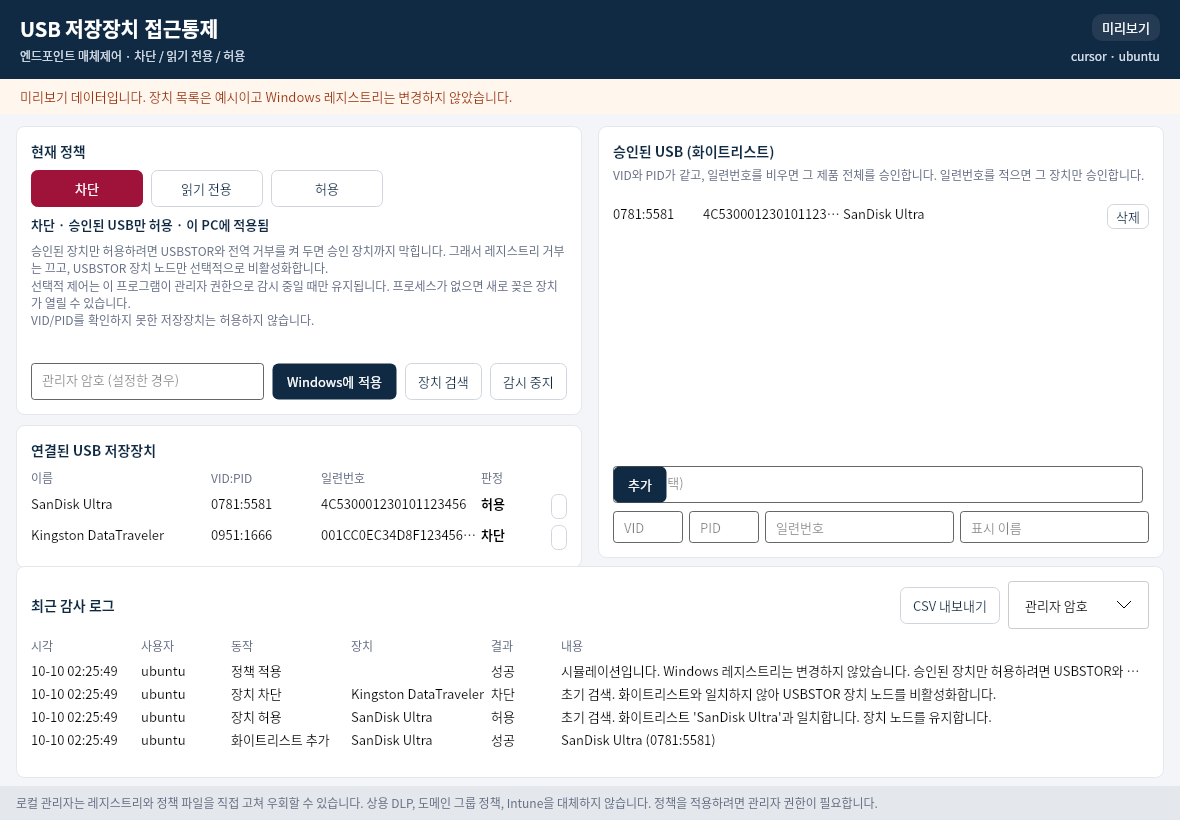
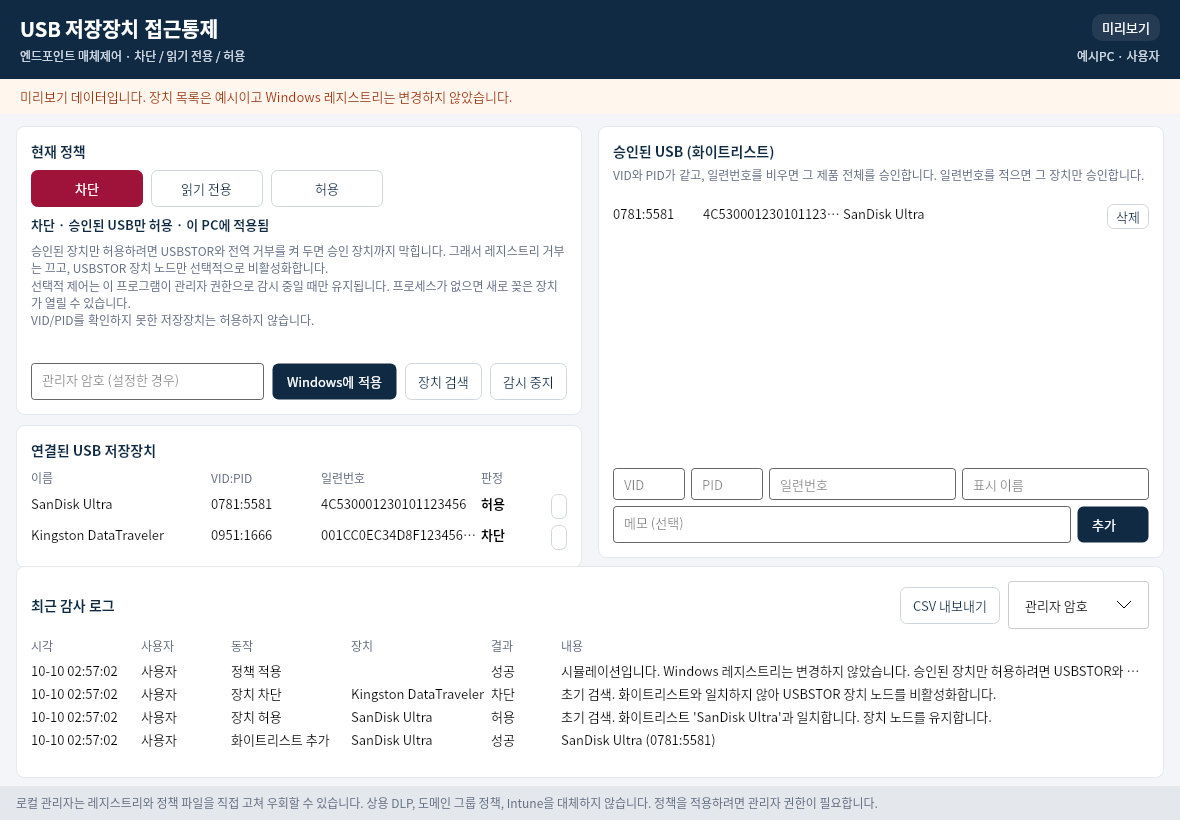
Fix the architecture diagram encoding and the preview screenshot.
Replace the mojibake SVG with UTF-8 Korean text, keep the add button beside the note field, and show a placeholder account in preview captures.

diff --git a/tests/UsbAccessControl.App.Tests/ScreenshotTests.cs b/tests/UsbAccessControl.App.Tests/ScreenshotTests.cs
@@ -14,10 +14,16 @@ public class HeadlessAppBuilder
     public static AppBuilder BuildAvaloniaApp()
     {
         Environment.SetEnvironmentVariable("USBAC_HEADLESS", "1");
-        return AppBuilder.Configure<App>()
+        var builder = AppBuilder.Configure<App>()
             .UseSkia()
             .WithInterFont()
             .UseHeadless(new AvaloniaHeadlessPlatformOptions { UseHeadlessDrawing = false });
+        if (Environment.GetEnvironmentVariable("USBAC_SCREENSHOT_CJK") == "1")
+        {
+            builder = builder.With(new FontManagerOptions { DefaultFamilyName = "Noto Sans CJK KR" });
+        }
+
+        return builder;
     }
 }
 
@@ -30,9 +36,11 @@ public class ScreenshotTests
         {
             DataContext = PreviewSession.CreateModel(),
             Width = 1180,
-            Height = 820,
-            FontFamily = FontFamily.Parse("avares://Avalonia.Fonts.Inter/Assets#Inter")
+            Height = 820
         };
+        window.FontFamily = Environment.GetEnvironmentVariable("USBAC_SCREENSHOT_CJK") == "1"
+            ? new FontFamily("Noto Sans CJK KR")
+            : FontFamily.Parse("avares://Avalonia.Fonts.Inter/Assets#Inter");
         window.Show();
         var frame = window.CaptureRenderedFrame();
         Assert.NotNull(frame);
@@ -57,5 +65,9 @@ public class ScreenshotTests
         Assert.Contains(model.Devices, device => device.Name.Contains("Kingston") && device.Access == "차단");
         Assert.Contains(model.Whitelist, entry => entry.Identity == "0781:5581");
         Assert.Contains("승인된 USB만 허용", model.StatusText);
+        Assert.Equal("예시PC · 사용자", model.MachineText);
+        Assert.DoesNotContain(Environment.UserName, model.MachineText, StringComparison.Ordinal);
+        Assert.NotEmpty(model.Logs);
+        Assert.All(model.Logs, row => Assert.Equal("사용자", row.Who));
     }
 }

diff --git a/src/UsbAccessControl.Hosting/HostFactory.cs b/src/UsbAccessControl.Hosting/HostFactory.cs
@@ -20,6 +20,7 @@ public static class HostFactory
             windows ? CreateWindowsDevices() : new EmptyDeviceEnumerator(),
             windows ? CreateWindowsController() : new RecordingDeviceController(),
             windows ? CreateWindowsElevation() : new FixedElevation(false),
+            new EnvironmentUserContext(),
             SessionOptions.Production,
             windows ? CreateWindowsRegistry() : null);
     }
@@ -36,6 +37,7 @@ public static class HostFactory
             devices,
             new RecordingDeviceController(),
             new FixedElevation(false),
+            new FixedUserContext("사용자", "예시PC"),
             SessionOptions.Preview,
             registry: null);
     }
@@ -70,6 +72,7 @@ public static class HostFactory
         IDeviceEnumerator devices,
         IDeviceController controller,
         IElevationProbe elevation,
+        IUserContext user,
         SessionOptions options,
         IRegistryReader? registry)
     {
@@ -77,7 +80,7 @@ public static class HostFactory
             new PolicyStore(directory, protector),
             new AuditLog(directory, protector),
             new EnforcementStateStore(directory, protector),
-            new EnvironmentUserContext(),
+            user,
             TimeProvider.System,
             enforcer,
             devices,

diff --git a/src/UsbAccessControl.Core/Abstractions.cs b/src/UsbAccessControl.Core/Abstractions.cs
@@ -52,6 +52,18 @@ public sealed class EnvironmentUserContext : IUserContext
     public string MachineName => string.IsNullOrWhiteSpace(Environment.MachineName) ? "unknown" : Environment.MachineName;
 }
 
+public sealed class FixedUserContext : IUserContext
+{
+    public FixedUserContext(string userName, string machineName)
+    {
+        UserName = userName;
+        MachineName = machineName;
+    }
+
+    public string UserName { get; }
+    public string MachineName { get; }
+}
+
 public sealed class FixedElevation : IElevationProbe
 {
     public FixedElevation(bool isElevated) => IsElevated = isElevated;

diff --git a/src/UsbAccessControl.Core/PolicySession.cs b/src/UsbAccessControl.Core/PolicySession.cs
@@ -59,6 +59,8 @@ public sealed class PolicySession
 
     public SessionOptions Options { get; }
     public PolicyDocument Document => _document;
+    public string UserName => _user.UserName;
+    public string MachineName => _user.MachineName;
     public IReadOnlyList<string> LoadWarnings { get; private set; }
     public IReadOnlyDictionary<string, string> ControlResults => _controlResults;
     public bool IsElevated => _elevation.IsElevated;

diff --git a/src/UsbAccessControl.App/MainViewModel.cs b/src/UsbAccessControl.App/MainViewModel.cs
@@ -69,7 +69,7 @@ public sealed class MainViewModel : INotifyPropertyChanged
                 : OperatingSystem.IsWindows()
                     ? "권한 부족"
                     : "Windows 아님";
-        MachineText = $"{Environment.MachineName} · {Environment.UserName}";
+        MachineText = $"{session.MachineName} · {session.UserName}";
         Reload();
     }
 

diff --git a/README.md b/README.md
@@ -33,7 +33,7 @@ Windows 10/11 PC에서 USB 대용량 저장장치 접근을 **차단**, **읽기
 
 ## 화면
 
-아래 그림은 실제 Avalonia 창을 헤드리스 렌더러로 캡처한 미리보기입니다. 장치 두 대(SanDisk Ultra, Kingston DataTraveler)는 `--preview`와 같은 **예시 데이터**이고, 캡처 중 Windows 레지스트리는 변경하지 않았습니다. 계정 이름이 빌드 계정으로 보이는 것은 그 환경의 실제 사용자이기 때문입니다. Windows에서 실행하면 같은 화면에 실제 장치와 적용 상태가 나옵니다.
+아래 그림은 실제 Avalonia 창을 헤드리스 렌더러로 캡처한 미리보기입니다. 장치 두 대(SanDisk Ultra, Kingston DataTraveler)와 오른쪽 위의 `예시PC · 사용자`는 `--preview`와 같은 **예시 데이터**이고, 캡처 중 Windows 레지스트리는 변경하지 않았습니다. Windows에서 실행하면 같은 화면에 그 PC의 계정, 실제 장치, 적용 상태가 나옵니다.
 
 ![미리보기 데이터로 렌더한 주 화면. 차단 정책, 승인된 SanDisk, 차단된 Kingston, 감사 로그](docs/images/ui_main_preview.png)
 
@@ -160,10 +160,10 @@ dotnet test UsbAccessControl.sln -c Release
 
 `UsbAccessControl.Core.Tests`와 `UsbAccessControl.Cli.Tests`는 Windows API를 호출하지 않습니다. 레지스트리 적용은 가짜 편집기로, 장치 노드는 기록용 컨트롤러로 검증합니다. GitHub Actions는 `ubuntu-latest`에서 전체 테스트를 실행하고, `windows-latest`에서 같은 솔루션을 빌드하고 테스트합니다. Windows 작업도 러너의 USB 정책을 바꾸지 않습니다. 실제 레지스트리 적용은 관리자가 자신의 PC에서 `policy apply`를 실행할 때의 동작입니다.
 
-창 렌더 테스트는 Avalonia 헤드리스와 Skia로 실제 창 비트맵을 만듭니다. 스크린샷 파일을 다시 쓰려면 다음처럼 실행합니다.
+창 렌더 테스트는 Avalonia 헤드리스와 Skia로 실제 창 비트맵을 만듭니다. CI에서는 한글 글꼴이 없어도 되도록 임베드된 Inter로 그립니다. 저장소의 미리보기 그림은 한글이 보이도록 Noto Sans CJK KR이 설치된 환경에서 같은 창을 다시 캡처한 것입니다.
 
 ```bash
-USBAC_WRITE_SCREENSHOT=docs/images/ui_main_preview.png dotnet test tests/UsbAccessControl.App.Tests -c Release --filter MainWindow_renders_a_real_frame
+USBAC_SCREENSHOT_CJK=1 USBAC_WRITE_SCREENSHOT=docs/images/ui_main_preview.png dotnet test tests/UsbAccessControl.App.Tests -c Release --filter MainWindow_renders_a_real_frame
 ```
 
 ## 라이선스
